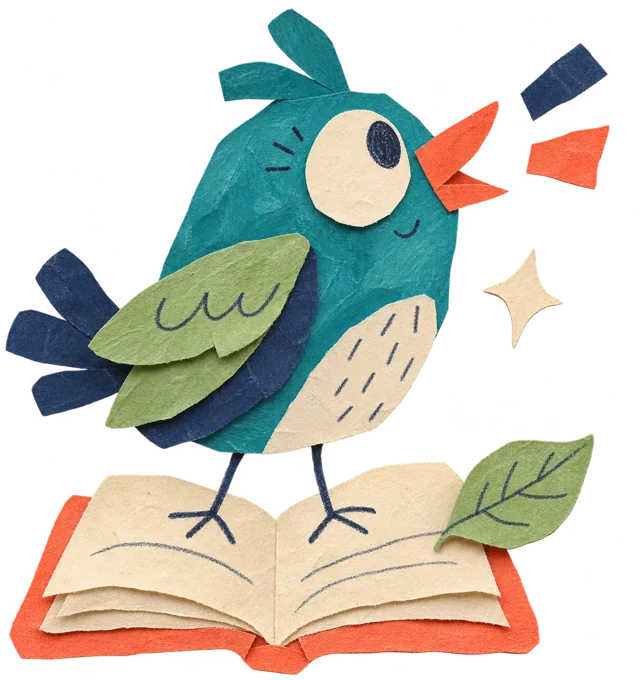
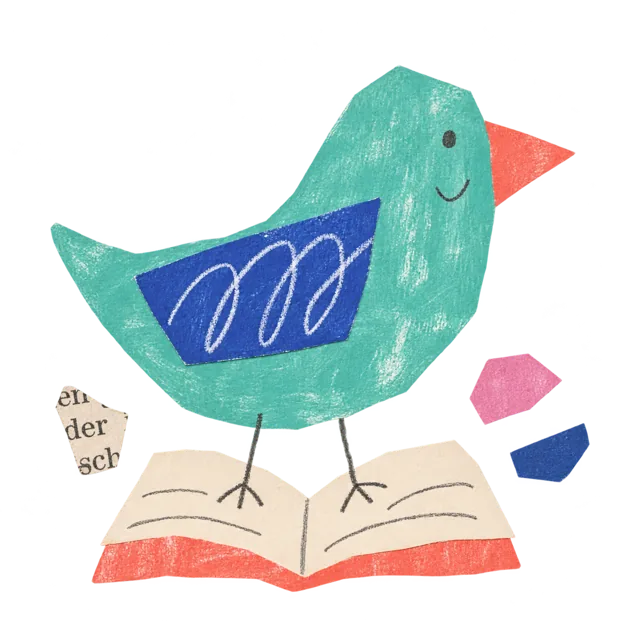
Add four original paper collages and a nonrepeating header randomizer
* Add four flat paper collages and a nonrepeating header randomizer

* Refresh cached header artwork when the collage style changes

diff --git a/src/App.jsx b/src/App.jsx
@@ -7,6 +7,7 @@ import {
 } from 'lucide-react'
 import { eligibleSession } from './eligibility.js'
 import { sessionTiming, napFriendly, napClash, timeLabel } from './timing.js'
+import HeaderCollage from './HeaderCollage.jsx'
 import initial from './initialData.json'
 import initialHistory from './initialHistory.json'
 import initialDiscoveries from './initialDiscoveries.json'
@@ -129,7 +130,7 @@ function App(){
  const toggleFav=id=>setFavorites(old=>{const value=old.includes(id)?old.filter(x=>x!==id):[...old,id];localStorage.setItem('pfds-favorites',JSON.stringify(value));return value})
  const titlePeriod=`${monthDay(weekends[0])} – ${monthDay(datePlusDays(weekends[5],1))}`
  return <div className="site-shell"><header><div className="wide nav"><a className="brand" href="#inicio" aria-label="Página inicial"><span className="logo-mark" aria-hidden="true">✳</span><span>pequenos <strong>fins de semana</strong></span></a><nav><a href="#atividades">Atividades</a><a href="#fontes">Inscrições</a></nav></div></header>
- <main id="inicio"><section className="hero"><div className="wide hero-inner"><div className="hero-text"><h1>Planos pequenos.<br/><em>Manhãs grandes.</em></h1><p className="hero-intro">Histórias, música e pequenas descobertas.<br/>O fim de semana começa com tempo para brincar.</p><a className="hero-cta" href="#atividades">Vamos escolher um plano <ArrowDownRight size={19}/></a></div><div className="hero-collage" aria-hidden="true"><img src={`${import.meta.env.BASE_URL}illustrations/header-paper-bird.webp`} alt="" width="640" height="680"/></div></div></section>
+ <main id="inicio"><section className="hero"><div className="wide hero-inner"><div className="hero-text"><h1>Planos pequenos.<br/><em>Manhãs grandes.</em></h1><p className="hero-intro">Histórias, música e pequenas descobertas.<br/>O fim de semana começa com tempo para brincar.</p><a className="hero-cta" href="#atividades">Vamos escolher um plano <ArrowDownRight size={19}/></a></div><HeaderCollage/></div></section>
  <div className="wide content"><div className="update-row"><span className="updated-indicator"><RefreshCw size={14}/> Dados: {data.updatedAt? new Date(data.updatedAt).toLocaleString('pt-PT',{dateStyle:'short',timeStyle:'short',timeZone:'Europe/Lisbon'}):'sem data'}</span><span className="range-indicator">Próximas 6 semanas <strong>{titlePeriod}</strong></span></div>
  {fetchError&&<div className="fallback-warning"><CircleAlert size={17}/> Sem ligação à atualização. Só mostramos sessões com verificação recente; tenta novamente mais tarde.</div>}
  {data.lastSuccessfulScan===null&&<div className="fallback-warning"><Info size={17}/> Versão inicial: a pesquisa automática começa quando o projeto estiver publicado e o GitHub Actions estiver ativado.</div>}

diff --git a/src/styles.css b/src/styles.css
@@ -39,3 +39,7 @@ h1,h2,h3,.brand,.stats strong,.footer-left strong{font-family:Weekend,'Mali',cur
 .hero h1:after,.hero h1 em:after,.hero:before{display:none}.hero-inner{position:relative;display:flex;align-items:center;gap:30px}.hero-text{position:relative;z-index:1;flex:1;min-width:0;padding:48px 0 64px}.hero h1{max-width:820px}.hero-intro{margin-top:24px}.hero-collage{flex:0 0 290px;width:290px;align-self:center;margin:13px 0 31px;pointer-events:none;transform:rotate(4deg)}.hero-collage img{display:block;width:100%;height:auto;object-fit:contain}
 @media(min-width:681px) and (max-width:1150px){.hero-inner{gap:20px}.hero h1{font-size:clamp(40px,5.5vw,64px)}.hero-collage{flex-basis:220px;width:220px}.hero-intro{font-size:14px}}
 @media(max-width:680px){.hero-inner{display:block;padding-bottom:35px}.hero-text{padding:35px 0 0}.hero h1{max-width:none}.hero-intro{max-width:320px}.hero-collage{width:160px;margin:14px 2px 0 auto;transform:rotate(4deg)}.hero-collage img{width:100%;height:auto}.hero:after{background-size:auto 100%}}
+
+/* Four original paper collages, changed on request rather than on a timer. */
+.hero-collage{pointer-events:auto;transform:none}.hero-collage-art{aspect-ratio:1;transform:rotate(3deg);pointer-events:none}.hero-collage-art img{width:100%;height:100%;object-fit:contain}.collage-shuffle{display:flex;align-items:center;justify-content:center;gap:7px;min-height:40px;margin:7px auto 0;padding:9px 13px;border:1px solid #18234b66;border-radius:100px;background:transparent;color:#18234b;font-size:11px;font-weight:600}.collage-shuffle:hover{background:#fffdfa55;border-color:#18234b}.collage-announcement{position:absolute;width:1px;height:1px;padding:0;margin:-1px;overflow:hidden;clip:rect(0,0,0,0);white-space:nowrap;border:0}
+@media(max-width:680px){.hero-collage{width:170px;margin-top:15px}.collage-shuffle{font-size:11px;min-height:44px;padding:9px 11px}}

diff --git a/src/HeaderCollage.jsx b/src/HeaderCollage.jsx
@@ -1,0 +1,18 @@
+import React, {useEffect,useState} from 'react'
+import {RefreshCw} from 'lucide-react'
+import {collages,nextCollage} from './collages.js'
+
+export default function HeaderCollage(){
+  const [selected,setSelected]=useState(()=>{
+    let previous=-1
+    try {const stored=sessionStorage.getItem('pfds-header-collage');if(stored!==null)previous=Number(stored)} catch {}
+    return nextCollage(previous)
+  })
+  useEffect(()=>{try{sessionStorage.setItem('pfds-header-collage',String(selected))}catch{}},[selected])
+  const collage=collages[selected]
+  return <div className="hero-collage">
+    <div className="hero-collage-art"><img src={`${import.meta.env.BASE_URL}illustrations/${collage.file}?v=flat-paper-1`} alt="" width="640" height="640" decoding="async"/></div>
+    <button className="collage-shuffle" type="button" aria-label="Mudar colagem do cabeçalho" onClick={()=>setSelected(current=>nextCollage(current))}><RefreshCw size={14} aria-hidden="true"/> Mudar colagem</button>
+    <span className="collage-announcement" role="status" aria-live="polite">Colagem: {collage.name}</span>
+  </div>
+}

diff --git a/src/collages.js b/src/collages.js
@@ -1,0 +1,12 @@
+export const collages = [
+  {id:'bird',name:'Passarinho',file:'header-paper-bird.webp'},
+  {id:'city',name:'Casas',file:'header-paper-city.webp'},
+  {id:'butterfly',name:'Borboleta',file:'header-paper-butterfly.webp'},
+  {id:'music',name:'Música',file:'header-paper-music.webp'},
+]
+
+export function nextCollage(current,random=Math.random) {
+  if (!Number.isInteger(current) || current<0 || current>=collages.length) return Math.floor(random()*collages.length)
+  const choice=Math.floor(random()*(collages.length-1))
+  return choice>=current ? choice+1 : choice
+}
